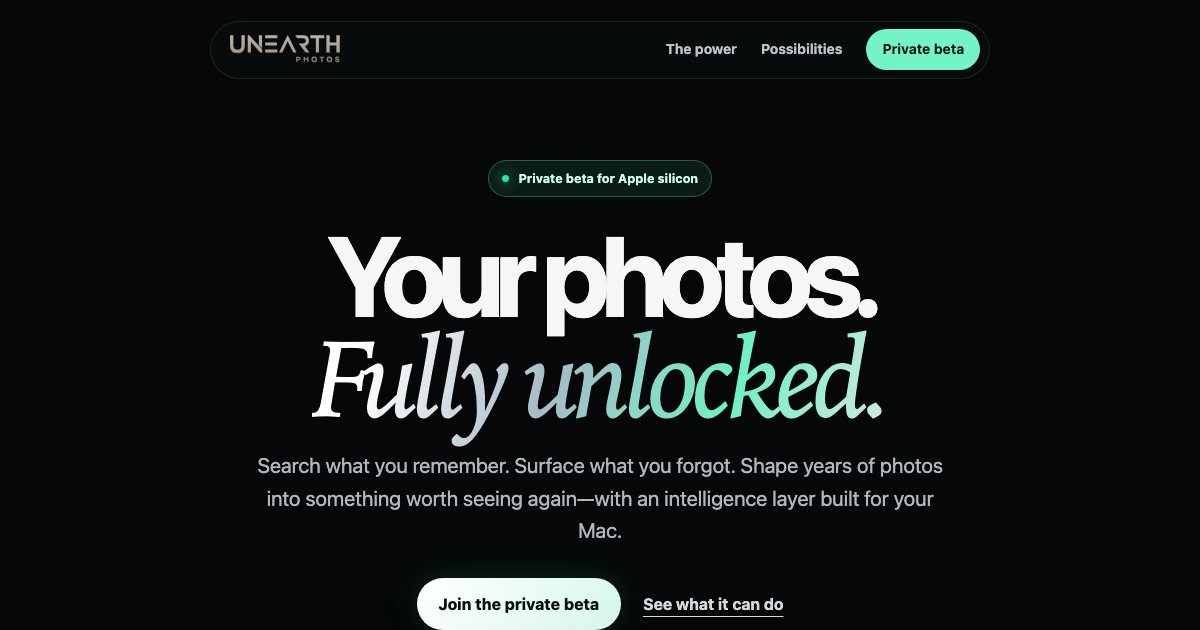
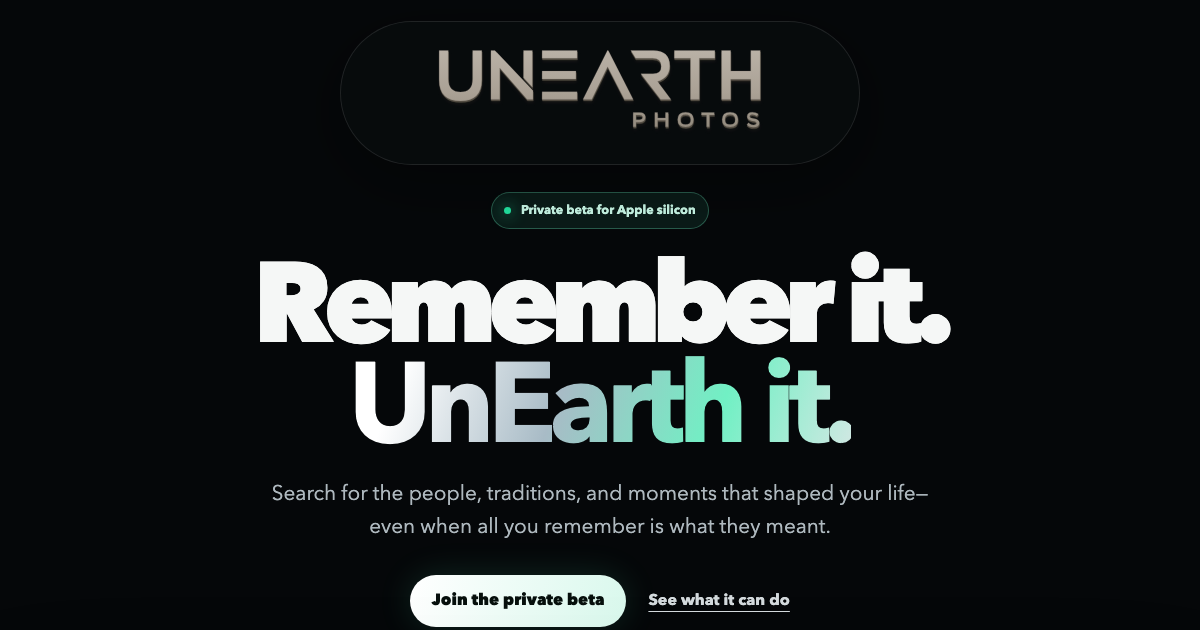
Center brand and shift search language to memories

diff --git a/website/styles.css b/website/styles.css
@@ -1,12 +1,12 @@
-:root{--black:#050709;--panel:#0d1318;--navy:#132532;--emerald:#22e6a2;--emerald-soft:#72f4c7;--silver:#b9c6ce;--gold:#f7cb78;--white:#f5f7f6;--muted:#929da4;--line:rgba(194,215,225,.15);--glass:rgba(15,25,31,.72);--sans:-apple-system,BlinkMacSystemFont,"SF Pro Display","Segoe UI",sans-serif;--serif:Iowan Old Style,Baskerville,"Times New Roman",serif}
+:root{--black:#050709;--panel:#0d1318;--navy:#132532;--emerald:#22e6a2;--emerald-soft:#72f4c7;--silver:#b9c6ce;--gold:#f7cb78;--white:#f5f7f6;--muted:#929da4;--line:rgba(194,215,225,.15);--glass:rgba(15,25,31,.72);--sans:"Avenir Next","Helvetica Neue",Arial,sans-serif}
 *{box-sizing:border-box}html{scroll-behavior:smooth;background:var(--black)}body{margin:0;overflow-x:hidden;color:var(--white);background:var(--black);font:16px/1.55 var(--sans)}img{display:block;max-width:100%}a{color:inherit}button,a{-webkit-tap-highlight-color:transparent}:focus-visible{outline:3px solid var(--emerald);outline-offset:4px;border-radius:6px}.skip-link{position:fixed;z-index:100;left:1rem;top:-5rem;padding:.75rem 1rem;color:#07110e;background:var(--emerald-soft)}.skip-link:focus{top:1rem}.sr-only{position:absolute;width:1px;height:1px;margin:-1px;overflow:hidden;clip:rect(0,0,0,0);white-space:nowrap}.ambient{position:fixed;z-index:-1;pointer-events:none;border-radius:50%;filter:blur(100px);opacity:.2}.ambient-one{width:36rem;height:36rem;top:8rem;left:-20rem;background:#167c63}.ambient-two{width:38rem;height:38rem;top:55rem;right:-24rem;background:#234c68}
-.site-header{position:absolute;z-index:20;top:1.3rem;left:50%;transform:translateX(-50%);width:min(780px,calc(100% - 2rem));min-height:58px;display:grid;grid-template-columns:1fr auto 1fr;align-items:center;padding:.45rem .55rem .45rem 1rem;border:1px solid rgba(255,255,255,.1);border-radius:999px;background:rgba(8,11,13,.78);box-shadow:0 18px 65px rgba(0,0,0,.35);backdrop-filter:blur(20px)}.wordmark{justify-self:start;width:116px}.wordmark img{width:100%;height:auto}.site-nav{grid-column:2/4;justify-self:end;display:flex;align-items:center;gap:1.5rem}.site-nav a{color:#bdc5ca;text-decoration:none;font-size:.87rem;font-weight:650}.site-nav a:hover{color:#fff}.site-nav .nav-cta{padding:.62rem 1rem;color:#05100c;background:var(--emerald-soft);border-radius:999px}.menu-button{display:none}
-.hero{position:relative;min-height:1040px;padding:10rem 1.25rem 6rem;text-align:center}.hero::before{content:"";position:absolute;z-index:-1;inset:0 0 auto;height:780px;background:radial-gradient(circle at 50% 35%,rgba(24,105,92,.25),transparent 47%),linear-gradient(180deg,#050709 0%,rgba(5,7,9,.5) 75%,#050709 100%)}.hero-copy{max-width:930px;margin:auto}.signal-pill{display:inline-flex;align-items:center;gap:.6rem;padding:.48rem .8rem;border:1px solid rgba(114,244,199,.3);border-radius:999px;color:#ccfceb;background:rgba(22,73,60,.3);font-size:.78rem;font-weight:700}.signal-pill span{width:7px;height:7px;border-radius:50%;background:var(--emerald);box-shadow:0 0 15px var(--emerald)}h1,h2,h3,p{margin-top:0}h1{margin:1.8rem 0 1.4rem;font-size:clamp(4.5rem,9.4vw,9.2rem);line-height:.88;letter-spacing:-.075em;font-weight:730}h1 em{font-family:var(--serif);font-weight:500;letter-spacing:-.055em;color:transparent;background:linear-gradient(110deg,#fff 12%,#a8bbc6 42%,#71f0c4 72%,#d8e7e5);-webkit-background-clip:text;background-clip:text}.hero-copy>p{max-width:700px;margin:auto;color:#aeb8be;font-size:clamp(1.05rem,1.8vw,1.3rem)}.hero-actions{display:flex;align-items:center;justify-content:center;gap:1.4rem;margin-top:2rem}.button{display:inline-flex;min-height:52px;align-items:center;justify-content:center;padding:.8rem 1.35rem;border-radius:999px;text-decoration:none;font-weight:760}.button-light{color:#07100d;background:linear-gradient(110deg,#fff,#d8f8ec);box-shadow:0 0 35px rgba(85,239,187,.14)}.quiet-link{color:#d4dadd;font-weight:680;text-underline-offset:.35rem}.hero-stage{position:relative;max-width:1200px;height:610px;margin:4rem auto 0;overflow:hidden;border:1px solid rgba(141,190,190,.18);border-radius:34px;background:#071015;box-shadow:0 50px 120px rgba(0,0,0,.55),0 0 70px rgba(29,206,148,.08)}.hero-stage::after{content:"";position:absolute;inset:0;background:linear-gradient(180deg,rgba(4,7,9,.05),rgba(4,7,9,.35));pointer-events:none}.hero-stage>img{width:100%;height:100%;object-fit:cover}.glass{border:1px solid rgba(214,232,232,.2);background:var(--glass);box-shadow:inset 0 1px 0 rgba(255,255,255,.07),0 18px 55px rgba(0,0,0,.3);backdrop-filter:blur(20px)}.hero-search{position:absolute;z-index:3;left:50%;bottom:3rem;transform:translateX(-50%);width:min(620px,calc(100% - 3rem));min-height:66px;display:flex;align-items:center;gap:.9rem;padding:.85rem 1.1rem;border-radius:18px;text-align:left;font-weight:650}.search-symbol{position:relative;display:inline-block;flex:0 0 auto;width:18px;height:18px;border:2px solid var(--silver);border-radius:50%}.search-symbol::after{content:"";position:absolute;width:7px;height:2px;right:-5px;bottom:-2px;transform:rotate(45deg);background:var(--silver)}.command-key{margin-left:auto;padding:.12rem .42rem;border:1px solid var(--line);border-radius:6px;color:var(--muted)}.result-chip{position:absolute;z-index:3;right:2.5rem;top:2.5rem;padding:.6rem .85rem;border-radius:999px;color:#dfe8e7;font-size:.78rem;font-weight:700}.result-chip i{color:var(--gold);font-style:normal}
-.statement{max-width:1100px;margin:auto;padding:9rem 1.25rem 5rem;text-align:center}.kicker{color:var(--emerald-soft);text-transform:uppercase;letter-spacing:.16em;font-size:.73rem;font-weight:800}.statement h2,.section-heading h2,.reveal-copy h2,.beta h2{margin-bottom:1.5rem;font-size:clamp(3.5rem,7.4vw,7.4rem);line-height:.95;letter-spacing:-.065em}.statement h2 span{font-family:var(--serif);font-weight:500;color:var(--silver)}.statement-copy{max-width:700px;margin:auto;color:var(--muted);font-size:1.15rem}
+.site-header{position:absolute;z-index:20;top:1.3rem;left:50%;transform:translateX(-50%);width:min(520px,calc(100% - 2rem));min-height:118px;display:flex;align-items:center;justify-content:center;padding:1rem 2rem;border:1px solid rgba(255,255,255,.1);border-radius:999px;background:rgba(8,11,13,.78);box-shadow:0 18px 65px rgba(0,0,0,.35);backdrop-filter:blur(20px)}.wordmark{width:min(340px,80%)}.wordmark img{width:100%;height:auto}.site-nav{grid-column:2/4;justify-self:end;display:flex;align-items:center;gap:1.5rem}.site-nav a{color:#bdc5ca;text-decoration:none;font-size:.87rem;font-weight:650}.site-nav a:hover{color:#fff}.site-nav .nav-cta{padding:.62rem 1rem;color:#05100c;background:var(--emerald-soft);border-radius:999px}.menu-button{display:none}
+.hero{position:relative;min-height:1040px;padding:12rem 1.25rem 6rem;text-align:center}.hero::before{content:"";position:absolute;z-index:-1;inset:0 0 auto;height:780px;background:radial-gradient(circle at 50% 35%,rgba(24,105,92,.25),transparent 47%),linear-gradient(180deg,#050709 0%,rgba(5,7,9,.5) 75%,#050709 100%)}.hero-copy{max-width:930px;margin:auto}.signal-pill{display:inline-flex;align-items:center;gap:.6rem;padding:.48rem .8rem;border:1px solid rgba(114,244,199,.3);border-radius:999px;color:#ccfceb;background:rgba(22,73,60,.3);font-size:.78rem;font-weight:700}.signal-pill span{width:7px;height:7px;border-radius:50%;background:var(--emerald);box-shadow:0 0 15px var(--emerald)}h1,h2,h3,p{margin-top:0}h1{margin:1.8rem 0 1.4rem;font-size:clamp(4.5rem,9.4vw,9.2rem);line-height:.88;letter-spacing:-.075em;font-weight:730}h1 em{font-family:var(--sans);font-style:normal;font-weight:650;letter-spacing:-.06em;color:transparent;background:linear-gradient(110deg,#fff 12%,#a8bbc6 42%,#71f0c4 72%,#d8e7e5);-webkit-background-clip:text;background-clip:text}.hero-copy>p{max-width:700px;margin:auto;color:#aeb8be;font-size:clamp(1.05rem,1.8vw,1.3rem)}.hero-actions{display:flex;align-items:center;justify-content:center;gap:1.4rem;margin-top:2rem}.button{display:inline-flex;min-height:52px;align-items:center;justify-content:center;padding:.8rem 1.35rem;border-radius:999px;text-decoration:none;font-weight:760}.button-light{color:#07100d;background:linear-gradient(110deg,#fff,#d8f8ec);box-shadow:0 0 35px rgba(85,239,187,.14)}.quiet-link{color:#d4dadd;font-weight:680;text-underline-offset:.35rem}.hero-stage{position:relative;max-width:1200px;height:610px;margin:4rem auto 0;overflow:hidden;border:1px solid rgba(141,190,190,.18);border-radius:34px;background:#071015;box-shadow:0 50px 120px rgba(0,0,0,.55),0 0 70px rgba(29,206,148,.08)}.hero-stage::after{content:"";position:absolute;inset:0;background:linear-gradient(180deg,rgba(4,7,9,.05),rgba(4,7,9,.35));pointer-events:none}.hero-stage>img{width:100%;height:100%;object-fit:cover}.glass{border:1px solid rgba(214,232,232,.2);background:var(--glass);box-shadow:inset 0 1px 0 rgba(255,255,255,.07),0 18px 55px rgba(0,0,0,.3);backdrop-filter:blur(20px)}.hero-search{position:absolute;z-index:3;left:50%;bottom:3rem;transform:translateX(-50%);width:min(620px,calc(100% - 3rem));min-height:66px;display:flex;align-items:center;gap:.9rem;padding:.85rem 1.1rem;border-radius:18px;text-align:left;font-weight:650}.search-symbol{position:relative;display:inline-block;flex:0 0 auto;width:18px;height:18px;border:2px solid var(--silver);border-radius:50%}.search-symbol::after{content:"";position:absolute;width:7px;height:2px;right:-5px;bottom:-2px;transform:rotate(45deg);background:var(--silver)}.command-key{margin-left:auto;padding:.12rem .42rem;border:1px solid var(--line);border-radius:6px;color:var(--muted)}.result-chip{position:absolute;z-index:3;right:2.5rem;top:2.5rem;padding:.6rem .85rem;border-radius:999px;color:#dfe8e7;font-size:.78rem;font-weight:700}.result-chip i{color:var(--gold);font-style:normal}
+.statement{max-width:1100px;margin:auto;padding:9rem 1.25rem 5rem;text-align:center}.kicker{color:var(--emerald-soft);text-transform:uppercase;letter-spacing:.16em;font-size:.73rem;font-weight:800}.statement h2,.section-heading h2,.reveal-copy h2,.beta h2{margin-bottom:1.5rem;font-size:clamp(3.5rem,7.4vw,7.4rem);line-height:.95;letter-spacing:-.065em}.statement h2 span{font-family:var(--sans);font-weight:500;color:var(--silver)}.statement-copy{max-width:700px;margin:auto;color:var(--muted);font-size:1.15rem}
 .search-experience{position:relative;max-width:1280px;height:620px;margin:2rem auto 9rem;overflow:hidden;border:1px solid var(--line);border-radius:34px}.flow-art{width:100%;height:100%;object-fit:cover}.search-experience::after{content:"";position:absolute;inset:0;background:linear-gradient(180deg,rgba(3,6,8,.1),rgba(3,6,8,.52))}.search-overlay{position:absolute;z-index:2;inset:0;display:grid;place-content:center;width:min(740px,calc(100% - 2rem));margin:auto}.search-bar{min-height:76px;display:flex;align-items:center;gap:1rem;padding:1rem 1.3rem;border-radius:22px;font-size:clamp(1rem,2vw,1.35rem)}.query-row{display:flex;justify-content:center;flex-wrap:wrap;gap:.6rem;margin-top:1rem}.query-row span{padding:.45rem .7rem;color:#bdc8cd;background:rgba(5,10,12,.58);border:1px solid var(--line);border-radius:999px;font-size:.75rem}
 .possibilities{max-width:1280px;margin:auto;padding:5rem 1.25rem 9rem}.section-heading{margin-bottom:3rem}.section-heading h2{max-width:800px;margin-bottom:0}.bento-grid{display:grid;grid-template-columns:repeat(12,1fr);gap:1rem}.bento{position:relative;min-height:430px;overflow:hidden;padding:2rem;border:1px solid var(--line);border-radius:26px;background:linear-gradient(145deg,rgba(18,27,33,.95),rgba(8,12,15,.98))}.bento::before{content:"";position:absolute;inset:0;background:linear-gradient(130deg,rgba(255,255,255,.04),transparent 35%);pointer-events:none}.bento-search,.bento-collect{grid-column:span 7}.bento-discover,.bento-control{grid-column:span 5}.bento-copy{position:relative;z-index:2;max-width:520px}.bento-copy>span{color:var(--emerald-soft);font-size:.75rem;font-weight:780;text-transform:uppercase;letter-spacing:.13em}.bento h3{margin:.7rem 0;font-size:clamp(1.75rem,3vw,3rem);line-height:1;letter-spacing:-.04em}.bento p{color:var(--muted)}.mini-search{position:absolute;left:2rem;right:2rem;bottom:2rem;min-height:64px;display:flex;align-items:center;gap:1rem;padding:1rem;border-radius:18px;color:#dce5e6}.photo-fan{position:absolute;left:50%;bottom:-3.2rem;width:320px;height:245px;transform:translateX(-50%)}.photo-fan img{position:absolute;width:170px;height:210px;object-fit:cover;border:5px solid rgba(219,229,229,.85);border-radius:18px;box-shadow:0 20px 50px rgba(0,0,0,.45)}.photo-fan img:nth-child(1){left:0;transform:rotate(-12deg)}.photo-fan img:nth-child(2){left:75px;z-index:2}.photo-fan img:nth-child(3){right:0;transform:rotate(12deg)}.collection-stack{position:absolute;right:2rem;bottom:2rem;width:min(390px,calc(100% - 4rem))}.collection-stack div{display:grid;grid-template-columns:10px 1fr auto;align-items:center;gap:.75rem;margin-top:.55rem;padding:.8rem 1rem;border:1px solid var(--line);border-radius:12px;background:rgba(16,26,31,.8)}.collection-stack i{width:8px;height:8px;border-radius:50%;background:var(--emerald);box-shadow:0 0 12px rgba(34,230,162,.7)}.collection-stack b{color:var(--muted);font-size:.75rem}.power-orb{position:absolute;width:260px;height:260px;right:-40px;top:-40px;display:grid;place-items:center;border-radius:50%;background:radial-gradient(circle,rgba(47,255,183,.16),rgba(21,50,58,.1) 45%,transparent 70%);border:1px solid rgba(114,244,199,.12)}.power-orb::before,.power-orb::after{content:"";position:absolute;border:1px solid rgba(114,244,199,.16);border-radius:50%}.power-orb::before{inset:25px}.power-orb::after{inset:58px}.power-orb span{color:var(--gold);font-size:3rem}.bento-control .bento-copy{position:absolute;left:2rem;right:2rem;bottom:1.3rem}
 .product-reveal{max-width:1280px;margin:auto;padding:7rem 1.25rem 10rem}.reveal-copy{display:grid;grid-template-columns:1fr 1fr;gap:4rem;align-items:end;margin-bottom:3rem}.reveal-copy h2{margin:0}.reveal-copy>p{max-width:500px;color:var(--muted);font-size:1.08rem}.app-window{overflow:hidden;border:1px solid rgba(203,225,228,.22);border-radius:24px;background:#0a0e12;box-shadow:0 45px 120px rgba(0,0,0,.55);transform:perspective(1600px) rotateX(2deg)}.window-chrome{height:48px;display:flex;align-items:center;gap:7px;padding:0 1rem;border-bottom:1px solid var(--line);background:#10161b}.window-chrome span{width:10px;height:10px;border-radius:50%;background:#59656c}.window-chrome b{margin:auto;transform:translateX(-25px);font-size:.78rem;color:#9ba6ac}.app-shell{display:grid;grid-template-columns:190px 1fr;min-height:600px}.app-shell aside{display:flex;flex-direction:column;gap:.35rem;padding:1.3rem;border-right:1px solid var(--line);color:#8f9aa0}.app-shell aside strong{margin-bottom:1rem;color:#e9eded}.app-shell aside a{padding:.55rem .7rem;border-radius:8px}.app-shell aside .active{color:#eafff7;background:rgba(38,201,148,.14)}.app-shell aside small{margin:1.4rem .7rem .3rem;color:#58666d}.app-content{padding:1.5rem}.app-search{height:52px;display:flex;align-items:center;gap:.8rem;padding:0 1rem;border:1px solid var(--line);border-radius:12px;background:#11181d}.app-search kbd{margin-left:auto;color:#75838a;background:#1a2227;border:1px solid var(--line);border-radius:5px;padding:.15rem .4rem}.app-meta{display:flex;gap:3rem;padding:1.5rem 0}.app-meta div{display:flex;flex-direction:column}.app-meta small{color:#5d6b72;font-size:.65rem}.app-meta strong{font-size:1.3rem}.app-grid{display:grid;grid-template-columns:repeat(3,1fr);gap:.75rem}.app-grid img{width:100%;height:190px;object-fit:cover;border-radius:10px}
 .trust-line{max-width:900px;margin:0 auto 9rem;display:flex;align-items:center;justify-content:center;gap:1rem;padding:1.1rem 1.4rem;color:#8e9aa0;border-top:1px solid var(--line);border-bottom:1px solid var(--line);text-align:center}.trust-line p{margin:0}.trust-line strong{color:#cbd3d6}.trust-icon{color:var(--emerald);font-size:1.4rem}.beta{position:relative;max-width:1100px;margin:0 auto 8rem;overflow:hidden;padding:7rem 1.25rem;text-align:center;border:1px solid var(--line);border-radius:36px;background:radial-gradient(circle at 50% 25%,rgba(34,230,162,.13),transparent 36%),linear-gradient(145deg,#10171c,#06090b)}.beta-glow{position:absolute;width:500px;height:180px;left:50%;top:-100px;transform:translateX(-50%);background:var(--emerald);filter:blur(120px);opacity:.13}.beta img{position:relative;margin:0 auto 1.5rem;border-radius:25px;box-shadow:0 25px 55px rgba(0,0,0,.45)}.beta h2{font-size:clamp(3.5rem,7vw,6.5rem)}.beta>p:not(.kicker){max-width:650px;margin:0 auto 2rem;color:var(--muted);font-size:1.1rem}footer{max-width:1200px;margin:auto;padding:2.5rem 1.25rem;display:flex;align-items:center;gap:2rem;border-top:1px solid var(--line);color:#69767c;font-size:.78rem}.footer-wordmark{width:150px}.footer-wordmark img{width:100%}footer p{margin:0}footer p:last-child{margin-left:auto}
 @media(max-width:900px){.hero{min-height:auto}.hero-stage{height:520px}.bento-search,.bento-discover,.bento-collect,.bento-control{grid-column:span 12}.reveal-copy{grid-template-columns:1fr;gap:1rem}.app-shell{grid-template-columns:140px 1fr}.app-grid{grid-template-columns:repeat(2,1fr)}}
-@media(max-width:680px){.site-header{width:calc(100vw - 2rem);grid-template-columns:1fr 44px;padding-left:1rem}.wordmark{width:105px}.menu-button{display:grid;place-content:center;gap:6px;width:44px;height:44px;border:0;background:transparent}.menu-button span:not(.sr-only){display:block;width:22px;height:2px;background:#dce4e6}.site-nav{display:none;position:absolute;top:66px;left:0;right:0;grid-column:auto;flex-direction:column;align-items:stretch;gap:.3rem;padding:1rem;background:rgba(8,11,13,.96);border:1px solid var(--line);border-radius:18px}.site-nav.open{display:flex}.site-nav a{padding:.7rem}.site-nav .nav-cta{text-align:center}.hero{width:100vw;padding:8.5rem 1rem 6rem}.hero-copy>p{max-width:330px;font-size:1rem}.hero h1{font-size:clamp(2.9rem,12vw,3.6rem)}.hero-actions{flex-direction:column}.hero-stage{height:470px;margin-top:3rem;border-radius:24px}.hero-stage>img{object-position:63% center}.hero-search{bottom:1rem;font-size:.8rem}.result-chip{top:1rem;right:1rem;max-width:75%;white-space:nowrap;overflow:hidden;text-overflow:ellipsis}.statement{padding-top:6rem}.statement h2,.section-heading h2,.reveal-copy h2,.beta h2{font-size:clamp(3.2rem,15vw,4.6rem)}.search-experience{height:500px;margin-bottom:5rem;border-radius:24px}.flow-art{object-position:62% center}.query-row span:nth-child(n+3){display:none}.section-heading{display:block}.bento{min-height:400px;padding:1.4rem}.mini-search{left:1.4rem;right:1.4rem;bottom:1.4rem}.collection-stack{left:1.4rem;right:1.4rem;bottom:1.4rem;width:auto}.bento-control .bento-copy{left:1.4rem;right:1.4rem}.product-reveal{overflow:hidden;padding-top:4rem}.app-window{width:780px;transform:perspective(1600px) rotateX(2deg) translateX(-12%)}.trust-line{margin-left:1rem;margin-right:1rem}.beta{margin-left:1rem;margin-right:1rem;padding:5rem 1rem}footer{align-items:flex-start;flex-direction:column;gap:.6rem}footer p:last-child{margin-left:0}}
+@media(max-width:680px){.site-header{width:calc(100vw - 2rem);min-height:100px;padding:1rem}.wordmark{width:min(270px,78vw)}.menu-button{display:grid;place-content:center;gap:6px;width:44px;height:44px;border:0;background:transparent}.menu-button span:not(.sr-only){display:block;width:22px;height:2px;background:#dce4e6}.site-nav{display:none;position:absolute;top:66px;left:0;right:0;grid-column:auto;flex-direction:column;align-items:stretch;gap:.3rem;padding:1rem;background:rgba(8,11,13,.96);border:1px solid var(--line);border-radius:18px}.site-nav.open{display:flex}.site-nav a{padding:.7rem}.site-nav .nav-cta{text-align:center}.hero{width:100vw;padding:10.5rem 1rem 6rem}.hero-copy>p{max-width:330px;font-size:1rem}.hero h1{font-size:clamp(2.9rem,12vw,3.6rem)}.hero-actions{flex-direction:column}.hero-stage{height:470px;margin-top:3rem;border-radius:24px}.hero-stage>img{object-position:63% center}.hero-search{bottom:1rem;font-size:.8rem}.result-chip{top:1rem;right:1rem;max-width:75%;white-space:nowrap;overflow:hidden;text-overflow:ellipsis}.statement{padding-top:6rem}.statement h2,.section-heading h2,.reveal-copy h2,.beta h2{font-size:clamp(3.2rem,15vw,4.6rem)}.search-experience{height:500px;margin-bottom:5rem;border-radius:24px}.flow-art{object-position:62% center}.query-row span:nth-child(n+3){display:none}.section-heading{display:block}.bento{min-height:400px;padding:1.4rem}.mini-search{left:1.4rem;right:1.4rem;bottom:1.4rem}.collection-stack{left:1.4rem;right:1.4rem;bottom:1.4rem;width:auto}.bento-control .bento-copy{left:1.4rem;right:1.4rem}.product-reveal{overflow:hidden;padding-top:4rem}.app-window{width:780px;transform:perspective(1600px) rotateX(2deg) translateX(-12%)}.trust-line{margin-left:1rem;margin-right:1rem}.beta{margin-left:1rem;margin-right:1rem;padding:5rem 1rem}footer{align-items:flex-start;flex-direction:column;gap:.6rem}footer p:last-child{margin-left:0}}
 @media(prefers-reduced-motion:reduce){html{scroll-behavior:auto}*,*::before,*::after{animation-duration:.01ms!important;transition-duration:.01ms!important}}@media(prefers-contrast:more){:root{--muted:#bac2c6;--line:rgba(255,255,255,.35)}.glass{background:#10171c}.button-light{outline:2px solid #fff}}

diff --git a/website/index.html b/website/index.html
@@ -5,37 +5,35 @@
   <meta name="description" content="UnEarth gives your Mac the power to search, rediscover, and shape years of photos with local AI.">
   <meta name="theme-color" content="#050709">
   <meta property="og:type" content="website"><meta property="og:url" content="https://unearthphotos.app/">
-  <meta property="og:title" content="UnEarth — Your photos, fully unlocked">
-  <meta property="og:description" content="Search what you remember. Surface what you forgot. Shape years of photos at the speed of thought.">
+  <meta property="og:title" content="UnEarth — Remember it. UnEarth it.">
+  <meta property="og:description" content="Search for the people, traditions, and moments that shaped your life—even when all you remember is what they meant.">
   <meta property="og:image" content="https://unearthphotos.app/assets/social-card.png">
-  <meta name="twitter:card" content="summary_large_image"><meta name="twitter:title" content="UnEarth — Your photos, fully unlocked"><meta name="twitter:description" content="A new intelligence layer for your photo library, built for Mac."><meta name="twitter:image" content="https://unearthphotos.app/assets/social-card.png">
+  <meta name="twitter:card" content="summary_large_image"><meta name="twitter:title" content="UnEarth — Remember it. UnEarth it."><meta name="twitter:description" content="Find the people, traditions, and moments you remember across years of photos."><meta name="twitter:image" content="https://unearthphotos.app/assets/social-card.png">
   <link rel="canonical" href="https://unearthphotos.app/"><link rel="icon" href="assets/favicon.png" type="image/png"><link rel="apple-touch-icon" href="assets/apple-touch-icon.png"><link rel="stylesheet" href="styles.css">
-  <title>UnEarth — Your photos, fully unlocked</title>
+  <title>UnEarth — Remember it. UnEarth it.</title>
 </head>
 <body>
   <a class="skip-link" href="#main">Skip to content</a><div class="ambient ambient-one" aria-hidden="true"></div><div class="ambient ambient-two" aria-hidden="true"></div>
   <header class="site-header">
     <a class="wordmark" href="#top" aria-label="UnEarth Photos home"><img src="assets/unearth-photos-solid.svg" width="1080" height="320" alt="UnEarth Photos"></a>
-    <button class="menu-button" type="button" aria-expanded="false" aria-controls="site-nav"><span class="sr-only">Open navigation</span><span></span><span></span></button>
-    <nav id="site-nav" class="site-nav" aria-label="Main navigation"><a href="#power">The power</a><a href="#possibilities">Possibilities</a><a class="nav-cta" href="#beta">Private beta</a></nav>
   </header>
   <main id="main">
     <section class="hero" id="top">
-      <div class="hero-copy"><div class="signal-pill"><span></span> Private beta for Apple silicon</div><h1>Your photos.<br><em>Fully unlocked.</em></h1><p>Search what you remember. Surface what you forgot. Shape years of photos into something worth seeing again—with an intelligence layer built for your Mac.</p><div class="hero-actions"><a class="button button-light" href="#beta">Join the private beta</a><a class="quiet-link" href="#power">See what it can do</a></div></div>
-      <div class="hero-stage" aria-label="Illustration of UnEarth connecting photos with AI"><img src="assets/hero-intelligence-v2.png" alt="Floating photo tiles linked by emerald light on a dark flowing background"><div class="hero-search glass"><span class="search-symbol" aria-hidden="true"></span><span>the summer we kept going back to the lake</span><span class="command-key" aria-hidden="true">↵</span></div><div class="result-chip glass"><i aria-hidden="true">✦</i> 47 moments found across 12 years</div></div>
+      <div class="hero-copy"><div class="signal-pill"><span></span> Private beta for Apple silicon</div><h1>Remember it.<br><em>UnEarth it.</em></h1><p>Search for the people, traditions, and moments that shaped your life—even when all you remember is what they meant.</p><div class="hero-actions"><a class="button button-light" href="#beta">Join the private beta</a><a class="quiet-link" href="#power">See what it can do</a></div></div>
+      <div class="hero-stage" aria-label="Illustration of UnEarth connecting photos with AI"><img src="assets/hero-intelligence-v2.png" alt="Floating photo tiles linked by emerald light on a dark flowing background"><div class="hero-search glass"><span class="search-symbol" aria-hidden="true"></span><span>the times Grandpa was laughing</span><span class="command-key" aria-hidden="true">↵</span></div><div class="result-chip glass"><i aria-hidden="true">✦</i> Moments found across the years</div></div>
     </section>
     <section class="statement" id="power"><p class="kicker">A new kind of access</p><h2>You remember the moment.<br><span>UnEarth finds the photo.</span></h2><p class="statement-copy">No perfect filename. No endless scrolling. Describe what’s in your head and move through your library like it finally understands you.</p></section>
-    <section class="search-experience"><img class="flow-art" src="assets/search-flow-v2.png" alt="Emerald and silver light converging through a dark glass search field"><div class="search-overlay"><div class="search-bar glass"><span class="search-symbol"></span><strong>city lights after the rain</strong><span class="command-key">↵</span></div><div class="query-row" aria-label="Example searches"><span>the dog in fresh snow</span><span>sunsets from the coast</span><span>that mountain cabin</span></div></div></section>
+    <section class="search-experience"><img class="flow-art" src="assets/search-flow-v2.png" alt="Emerald and silver light converging through a dark glass search field"><div class="search-overlay"><div class="search-bar glass"><span class="search-symbol"></span><strong>the girls together over the years</strong><span class="command-key">↵</span></div><div class="query-row" aria-label="Example searches"><span>Dad teaching us to swim</span><span>every Christmas morning</span><span>all the road trips together</span></div></div></section>
     <section class="possibilities" id="possibilities"><div class="section-heading"><div><p class="kicker">One library. More possible.</p><h2>See more in<br>what you already have.</h2></div></div>
       <div class="bento-grid">
-        <article class="bento bento-search"><div class="bento-copy"><span>Search</span><h3>Find it without knowing where it is.</h3><p>Use ordinary language to cut through years of photos in moments.</p></div><div class="mini-search glass"><span class="search-symbol"></span><span>golden hour by the water</span></div></article>
+        <article class="bento bento-search"><div class="bento-copy"><span>Search</span><h3>Find the memory, not just the object.</h3><p>Describe the person, pattern, or moment you remember. UnEarth searches across the years.</p></div><div class="mini-search glass"><span class="search-symbol"></span><span>Mom and the girls cooking together</span></div></article>
         <article class="bento bento-discover"><div class="bento-copy"><span>Discover</span><h3>Notice what the scroll buried.</h3><p>Bring strong, overlooked photos and recurring moments back into view.</p></div><div class="photo-fan" aria-hidden="true"><img src="assets/photo-city.png" alt=""><img src="assets/photo-mountains.png" alt=""><img src="assets/photo-dog.png" alt=""></div></article>
         <article class="bento bento-collect"><div class="bento-copy"><span>Curate</span><h3>Turn a thought into a collection.</h3><p>Move from an idea to a focused set of photos you can review, refine, and keep.</p></div><div class="collection-stack"><div><i></i><span>Mountain air</span><b>24 photos</b></div><div><i></i><span>Night moves</span><b>18 photos</b></div><div><i></i><span>Coastlines</span><b>31 photos</b></div></div></article>
         <article class="bento bento-control"><div class="power-orb" aria-hidden="true"><span>✦</span></div><div class="bento-copy"><span>In your hands</span><h3>AI power. Zero learning curve.</h3><p>UnEarth does the complex work underneath. You search, choose, and create.</p></div></article>
       </div>
     </section>
     <section class="product-reveal"><div class="reveal-copy"><div><p class="kicker">Built to disappear</p><h2>More signal.<br>Less software.</h2></div><p>A focused Mac experience for moving from “I remember…” to “there it is.” The technology stays out of the way until you need it.</p></div>
-      <div class="app-window"><div class="window-chrome"><span></span><span></span><span></span><b>UnEarth</b></div><div class="app-shell"><aside><strong>Library</strong><a class="active">Everything</a><a>Discover</a><a>Collections</a><small>Intelligence</small><a>Search</a><a>Suggestions</a></aside><div class="app-content"><div class="app-search"><span class="search-symbol"></span><span>summer mountain trips</span><kbd>⌘ K</kbd></div><div class="app-meta"><div><small>RESULTS</small><strong>132</strong></div><div><small>YEARS</small><strong>2012–2026</strong></div><div><small>COLLECTIONS</small><strong>8</strong></div></div><div class="app-grid"><img src="assets/photo-mountains.png" alt="Synthetic mountain lake"><img src="assets/photo-city.png" alt="Synthetic city sunset"><img src="assets/photo-ocean.png" alt="Synthetic ocean scene"><img src="assets/photo-friends.png" alt="Synthetic friends in lavender"><img src="assets/photo-dog.png" alt="Synthetic golden retriever"><img src="assets/photo-mountains.png" alt="Synthetic mountain lake"></div></div></div></div>
+      <div class="app-window"><div class="window-chrome"><span></span><span></span><span></span><b>UnEarth</b></div><div class="app-shell"><aside><strong>Library</strong><a class="active">Everything</a><a>Discover</a><a>Collections</a><small>Intelligence</small><a>Search</a><a>Suggestions</a></aside><div class="app-content"><div class="app-search"><span class="search-symbol"></span><span>everyone together at the old house</span><kbd>⌘ K</kbd></div><div class="app-meta"><div><small>RESULTS</small><strong>132</strong></div><div><small>YEARS</small><strong>2012–2026</strong></div><div><small>COLLECTIONS</small><strong>8</strong></div></div><div class="app-grid"><img src="assets/photo-mountains.png" alt="Synthetic mountain lake"><img src="assets/photo-city.png" alt="Synthetic city sunset"><img src="assets/photo-ocean.png" alt="Synthetic ocean scene"><img src="assets/photo-friends.png" alt="Synthetic friends in lavender"><img src="assets/photo-dog.png" alt="Synthetic golden retriever"><img src="assets/photo-mountains.png" alt="Synthetic mountain lake"></div></div></div></div>
     </section>
     <section class="trust-line"><span class="trust-icon" aria-hidden="true">⌁</span><p><strong>Built around your library, not around the cloud.</strong> Local by default. Apple Photos stays the source of truth.</p></section>
     <section class="beta" id="beta"><div class="beta-glow" aria-hidden="true"></div><img src="assets/app-icon.png" width="120" height="120" alt="UnEarth app icon"><p class="kicker">Private beta development</p><h2>The next way into<br>your photo library.</h2><p>UnEarth is being prepared for a small Mac beta focused on fast search, surprising discovery, and effortless collection building.</p><a class="button button-light" href="mailto:hello@unearthphotos.app?subject=UnEarth%20private%20beta">Ask about the private beta</a></section>
